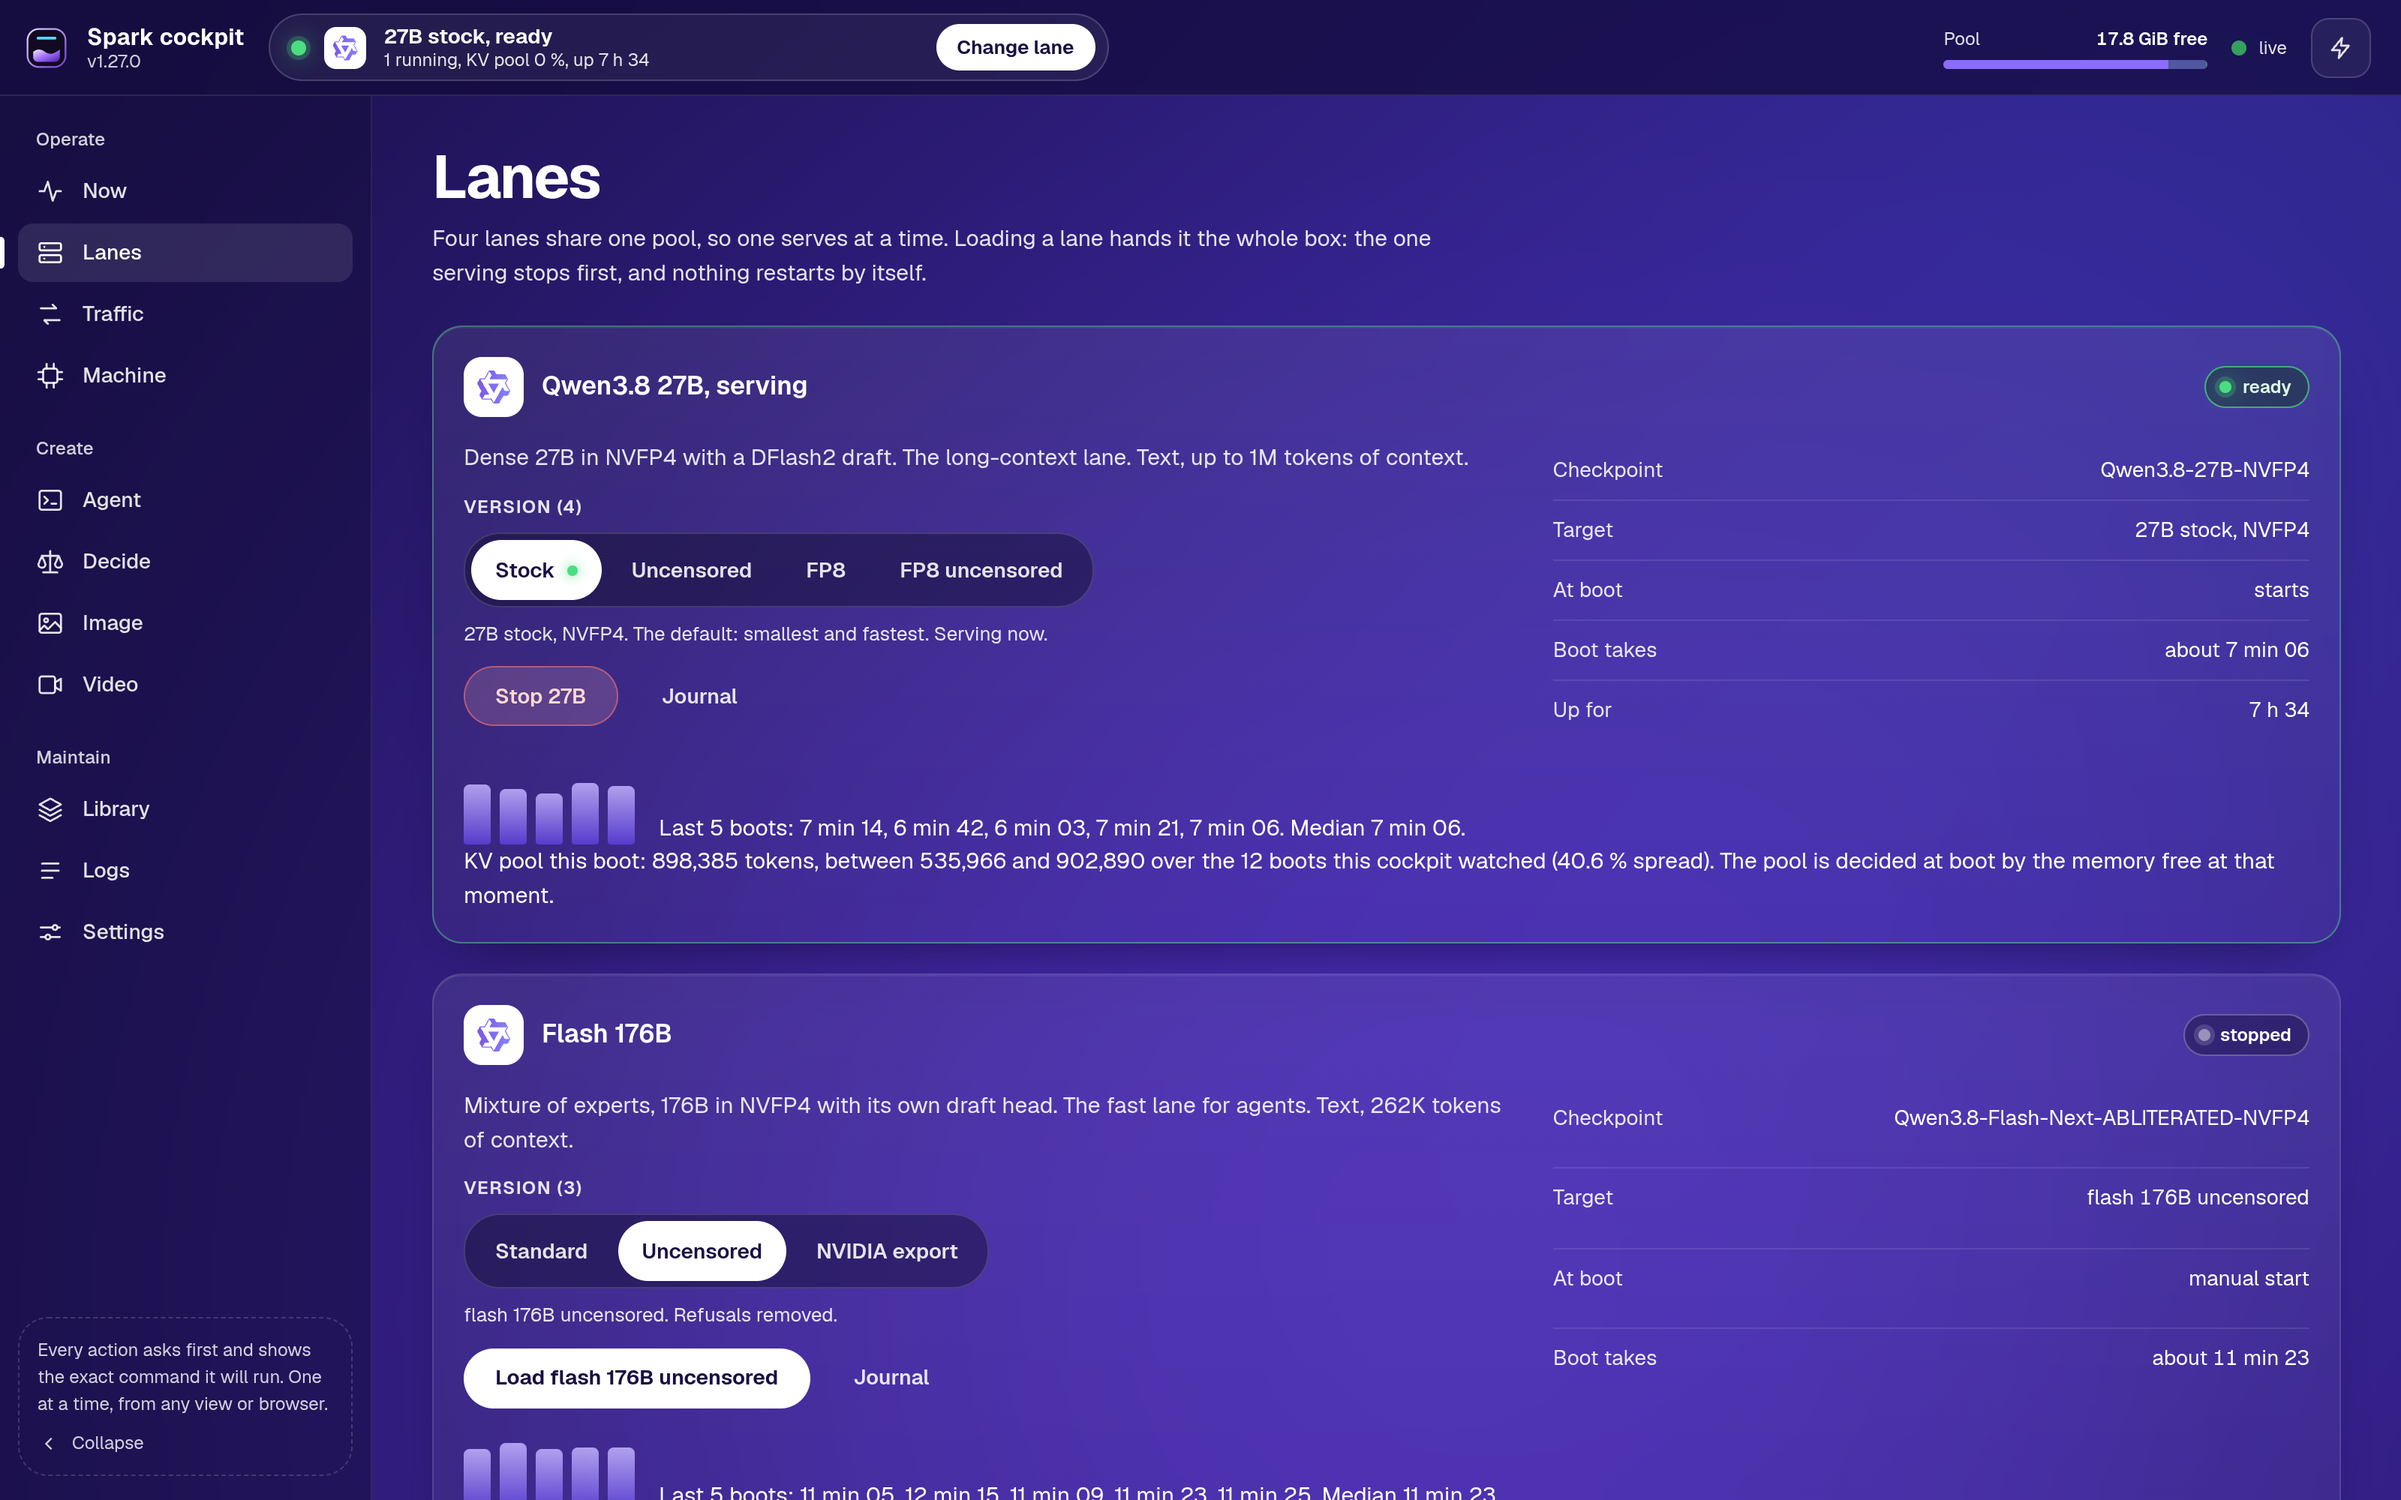
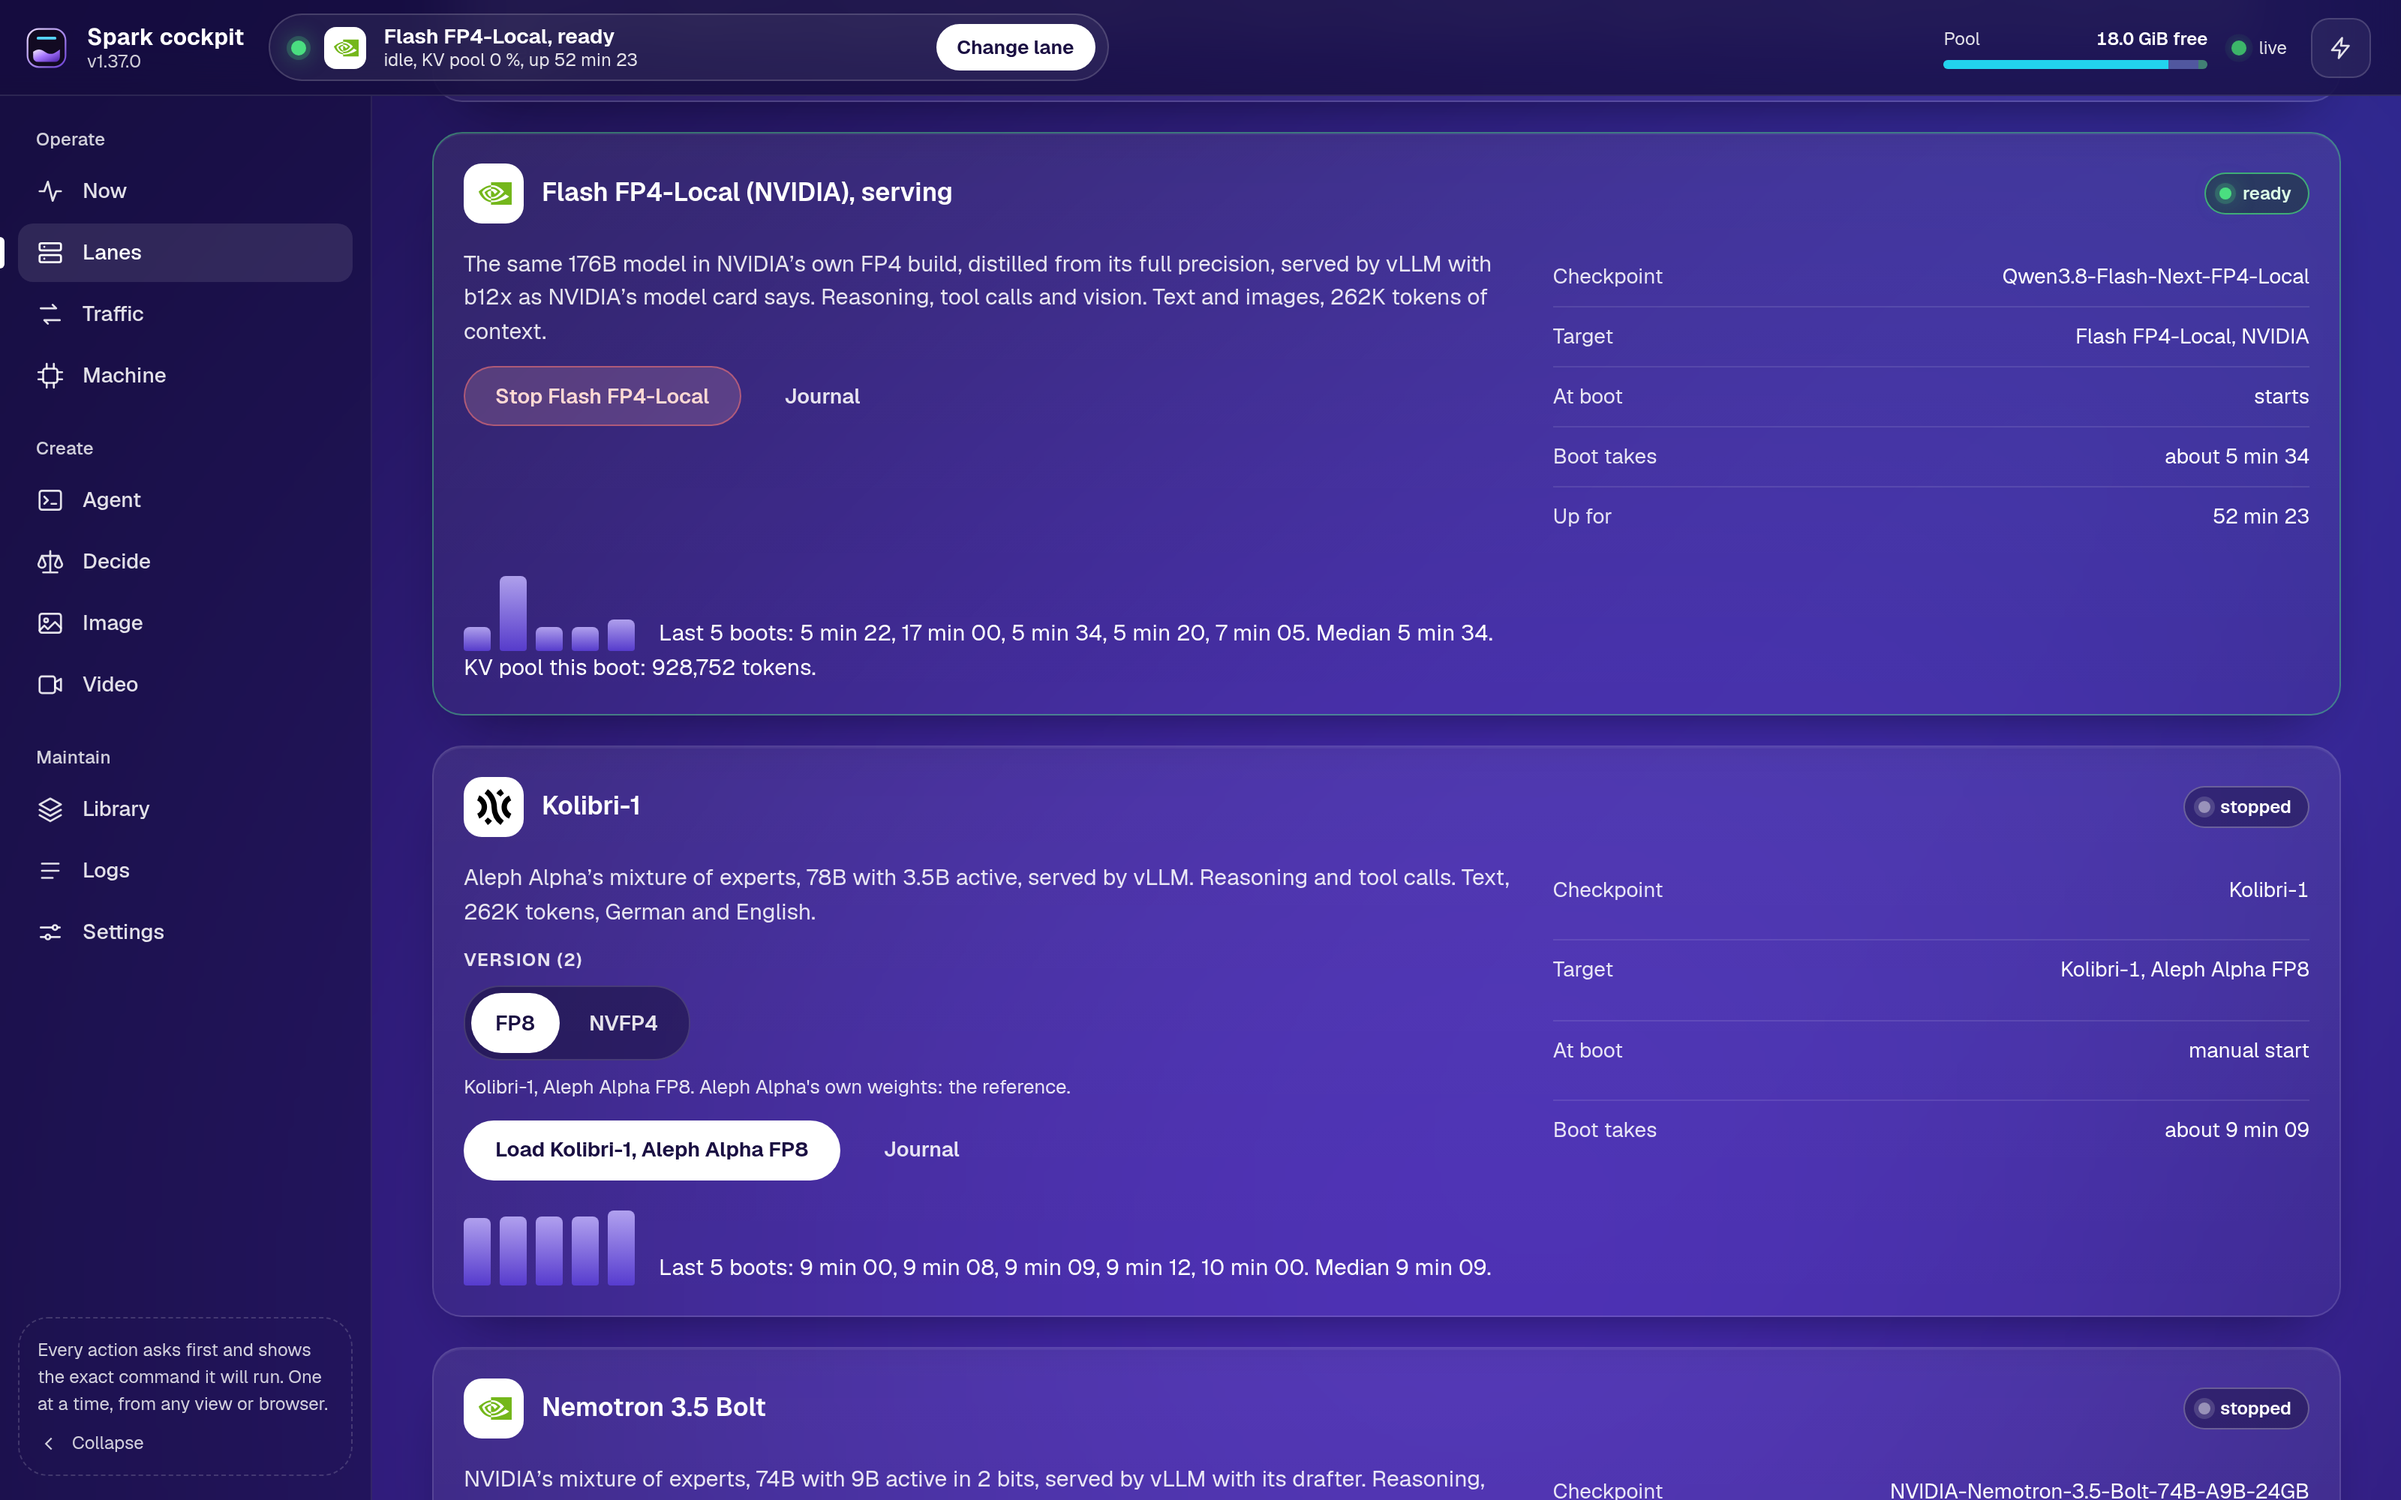
README: its two captures of the cockpit retaken at v1.37.0
The Now and Lanes captures were of v1.27.0: four lanes of the eight, and a card of the flash
lane's uncensored target. They are retaken from this box's own page at v1.37.0, with the eight
lanes and the Flash FP4-Local lane serving, the Lanes view scrolled to that lane's card, and their
alt texts say what each one shows (the requests and the timeline now sit below the Now view's fold).

diff --git a/README.md b/README.md
@@ -53,7 +53,7 @@ builds on its published config,
 takes its measurements as its DGX Spark reference, and it is listed in
 [awesome-dgx-spark](https://github.com/bidual/awesome-dgx-spark).
 
-![The Spark cockpit's Now view: one pool of unified memory and what holds it, the lanes in their rack with their makers' marks and the serving one edged in green, and below them the requests and the timeline](docs/img/cockpit-now.png)
+![The Spark cockpit's Now view: one pool of unified memory and what holds it, and the eight lanes in their rack with their makers' marks, the serving one edged in green](docs/img/cockpit-now.png)
 
 *The cockpit, installed by default: one pool of unified memory, lanes that take turns in it, and the whole box run from a browser, on a laptop or a phone.*
 
@@ -850,7 +850,7 @@ from a laptop or a phone over a private network, and `127.0.0.1` otherwise. A re
 that. The login is the same API key over plain HTTP, so this belongs on a tailnet or a LAN you
 trust and never on the open internet.
 
-![The Lanes view: each lane with its maker's mark, every version it can load in one row of buttons with the one serving marked in green, its Load or Stop button, its facts and its last five boots](docs/img/cockpit-lanes.png)
+![The Lanes view: the lane that serves edged in green with its Stop button, and each lane with its maker's mark, every version it can load in one row of buttons with the chosen one lit, its Load button, its facts and its last five boots](docs/img/cockpit-lanes.png)
 
 *Lanes: every version of each lane in sight, what its boots took on this box and the KV pool each one won, and one button that loads it: switch, stop, start, each step asking first and showing its command.*
 
